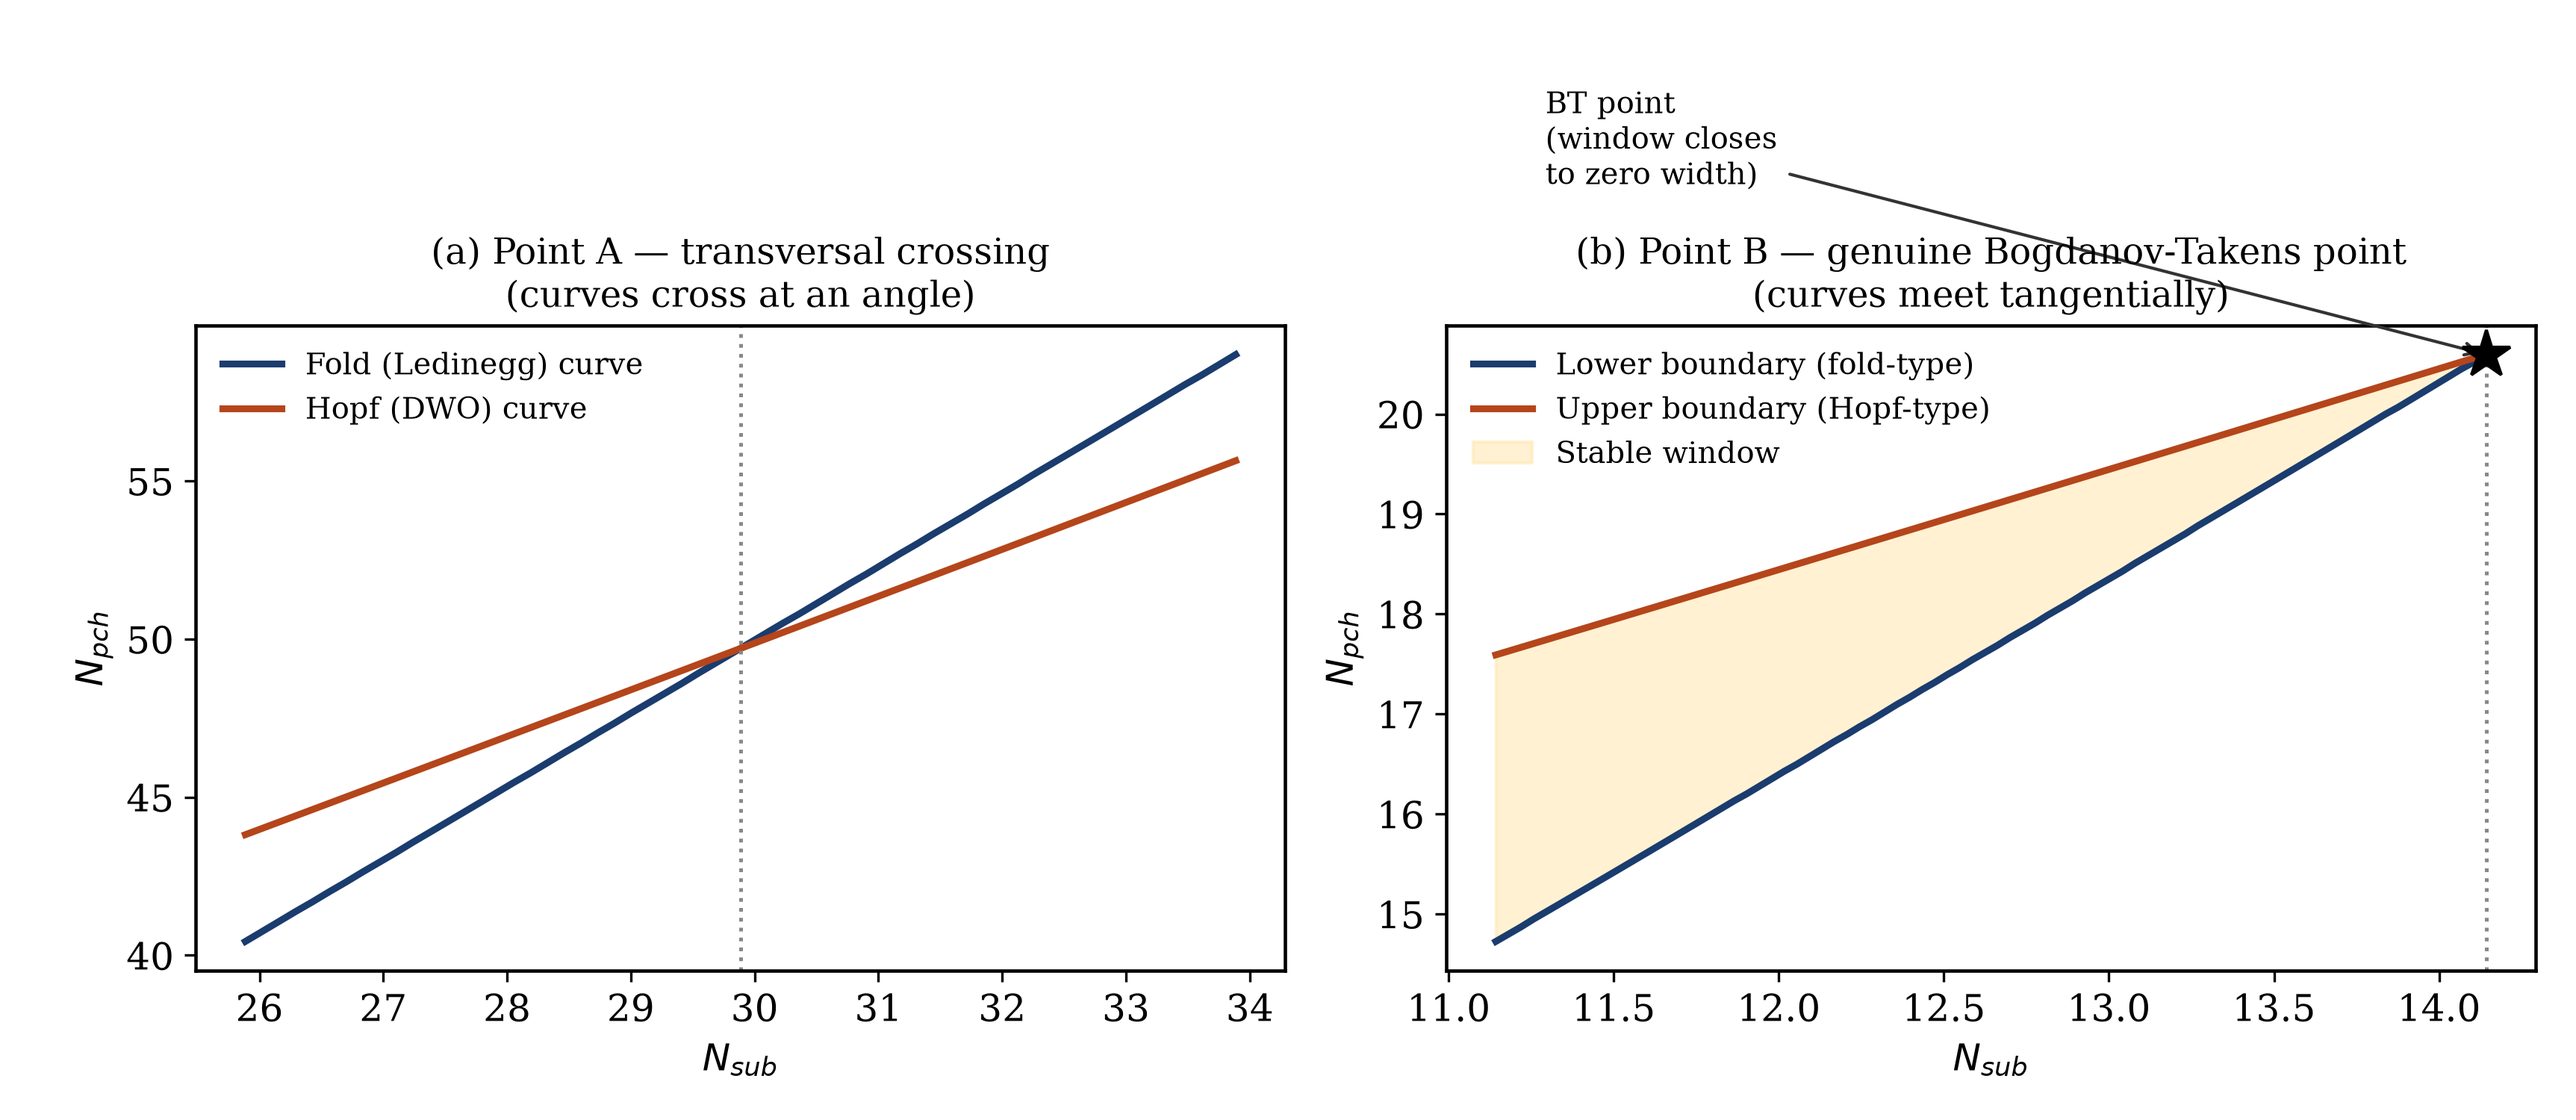
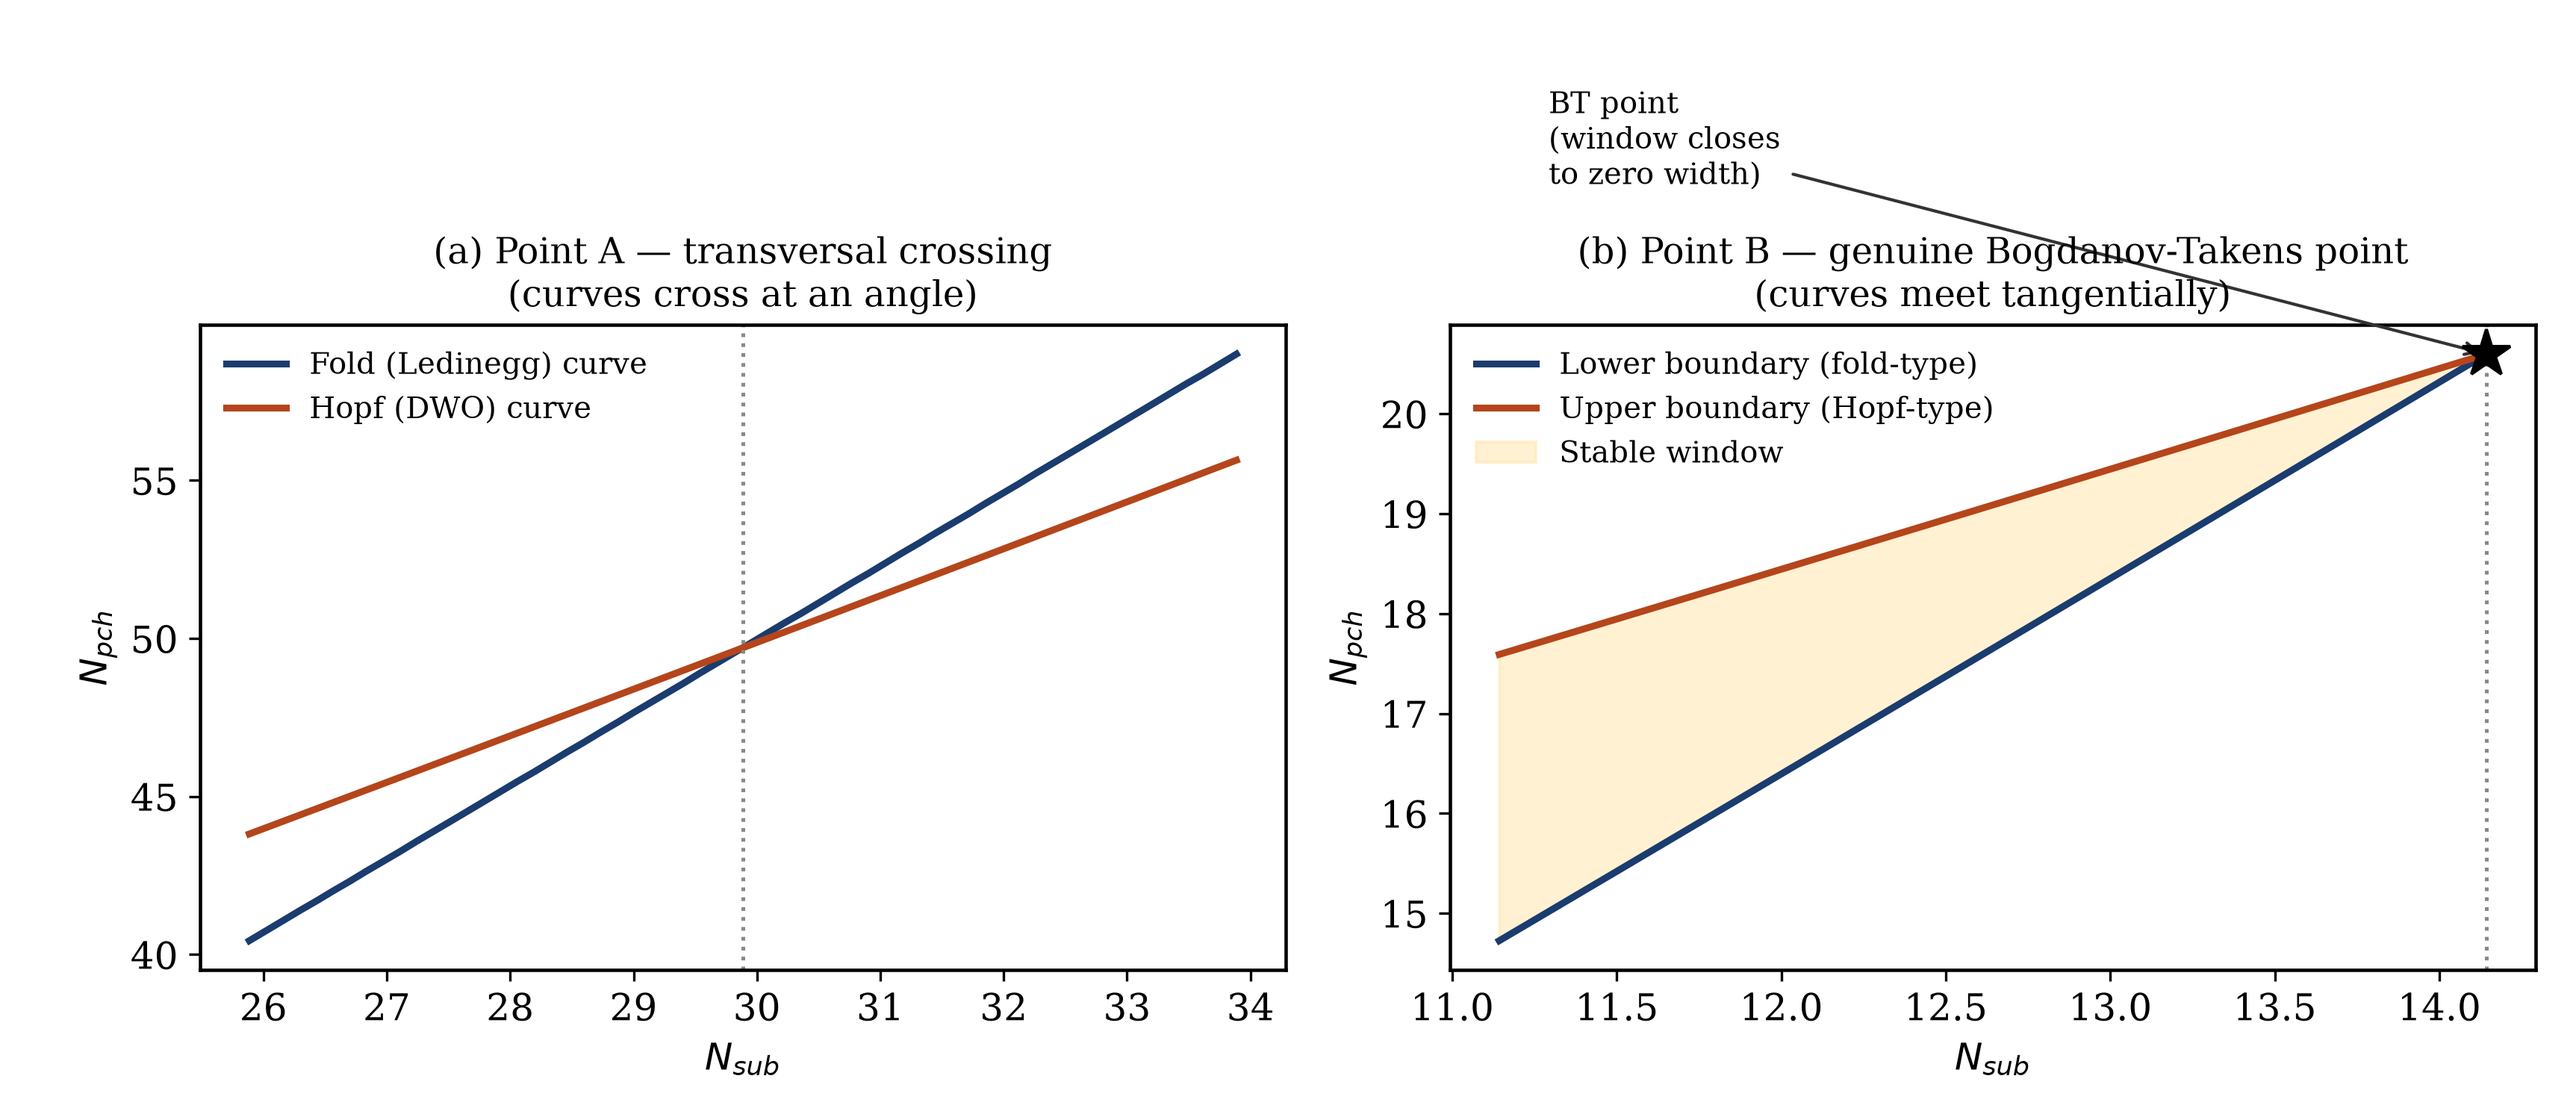
Fix Figure 2 to use corrected BT coordinates and wedge_boundaries_true
bt_point_data.py's NSUB_BT/NPCH_BT module constants still held the
pre-audit, non-genuine-double-zero values (14.14278/20.59478) even after
the Sec. 44 correction -- fixed at the source so nothing downstream can
silently inherit the stale value (log_distance_mlp.py's feature, this
figure, etc).

make_fig2_bifurcation_maps.py imported the superseded wedge_boundaries
(whose lower/fold value sits outside the true stable window near the BT
tip, per Supplementary S4.5) instead of wedge_boundaries_true, hardcoded
the star marker at the stale NPCH_BT literal, and saved to a stale
macOS path that doesn't exist on this machine. Fixed all three; verified
by regenerating the figure -- the stable window now visibly narrows and
closes exactly at the marker, matching the caption's claim.

diff --git a/manuscript/make_fig2_bifurcation_maps.py b/manuscript/make_fig2_bifurcation_maps.py
@@ -3,11 +3,14 @@ codim-2 point (Point A) and (b) the genuine Bogdanov-Takens point (Point
 B), both from this project's own ground-truth continuation tools -- not a
 schematic.
 """
+import os
+
 import matplotlib.pyplot as plt
 import numpy as np
 
 from tide.continuation.codim2_convergence import _fold, hopf_npch_general
-from tide.surrogates.bt_point_data import FR_BT, KE_BT, KI_BT, LAM_BT, NSUB_BT, wedge_boundaries
+from tide.surrogates.bt_point_data import (FR_BT, KE_BT, KI_BT, LAM_BT, NPCH_BT,
+                                            NSUB_BT, wedge_boundaries_true)
 
 plt.rcParams.update({"font.size": 12, "font.family": "serif", "axes.linewidth": 1.1})
 
@@ -35,7 +38,7 @@ hopf_a = np.array([v if v is not None else np.nan for v in hopf_a])
 nsub_b = np.linspace(NSUB_BT - 3.0, NSUB_BT, 80)
 lower_b, upper_b = [], []
 for ns in nsub_b:
-    lo, hi = wedge_boundaries(ns, FR_BT, LAM_BT, KI_BT, KE_BT, N1)
+    lo, hi = wedge_boundaries_true(ns, FR_BT, LAM_BT, KI_BT, KE_BT, N1)
     lower_b.append(lo)
     upper_b.append(hi)
 lower_b = np.array([v if v is not None else np.nan for v in lower_b])
@@ -57,8 +60,8 @@ ax.plot(nsub_b, lower_b, color="#1a3c6e", lw=2.2, label="Lower boundary (fold-ty
 ax.plot(nsub_b, upper_b, color="#b5451b", lw=2.2, label="Upper boundary (Hopf-type)")
 ax.fill_between(nsub_b, lower_b, upper_b, color="#ffe8b3", alpha=0.6, label="Stable window")
 ax.axvline(NSUB_BT, color="#888888", ls=":", lw=1.2)
-ax.plot([NSUB_BT], [20.59478], marker="*", color="black", ms=16, zorder=5)
-ax.annotate("BT point\n(window closes\nto zero width)", (NSUB_BT, 20.59478),
+ax.plot([NSUB_BT], [NPCH_BT], marker="*", color="black", ms=16, zorder=5)
+ax.annotate("BT point\n(window closes\nto zero width)", (NSUB_BT, NPCH_BT),
             xytext=(NSUB_BT - 2.85, 22.3), fontsize=9.5, ha="left",
             arrowprops=dict(arrowstyle="->", color="#333333", lw=1.0))
 ax.set_title("(b) Point B — genuine Bogdanov-Takens point\n(curves meet tangentially)", fontsize=11.5)
@@ -67,7 +70,7 @@ ax.set_ylabel("$N_{pch}$")
 ax.legend(frameon=False, fontsize=9.5, loc="upper left")
 
 fig.tight_layout()
-out = "/Users/sreerambarathula/Codes/Claude_Code/Flow_Boiling_Instability/manuscript/figures/fig2_bifurcation_maps.png"
+out = os.path.join(os.path.dirname(os.path.abspath(__file__)), "figures", "fig2_bifurcation_maps.png")
 fig.savefig(out, dpi=300)
 print("saved", out)
 print("Point A fold/hopf sample:", fold_a[:3], hopf_a[:3])
